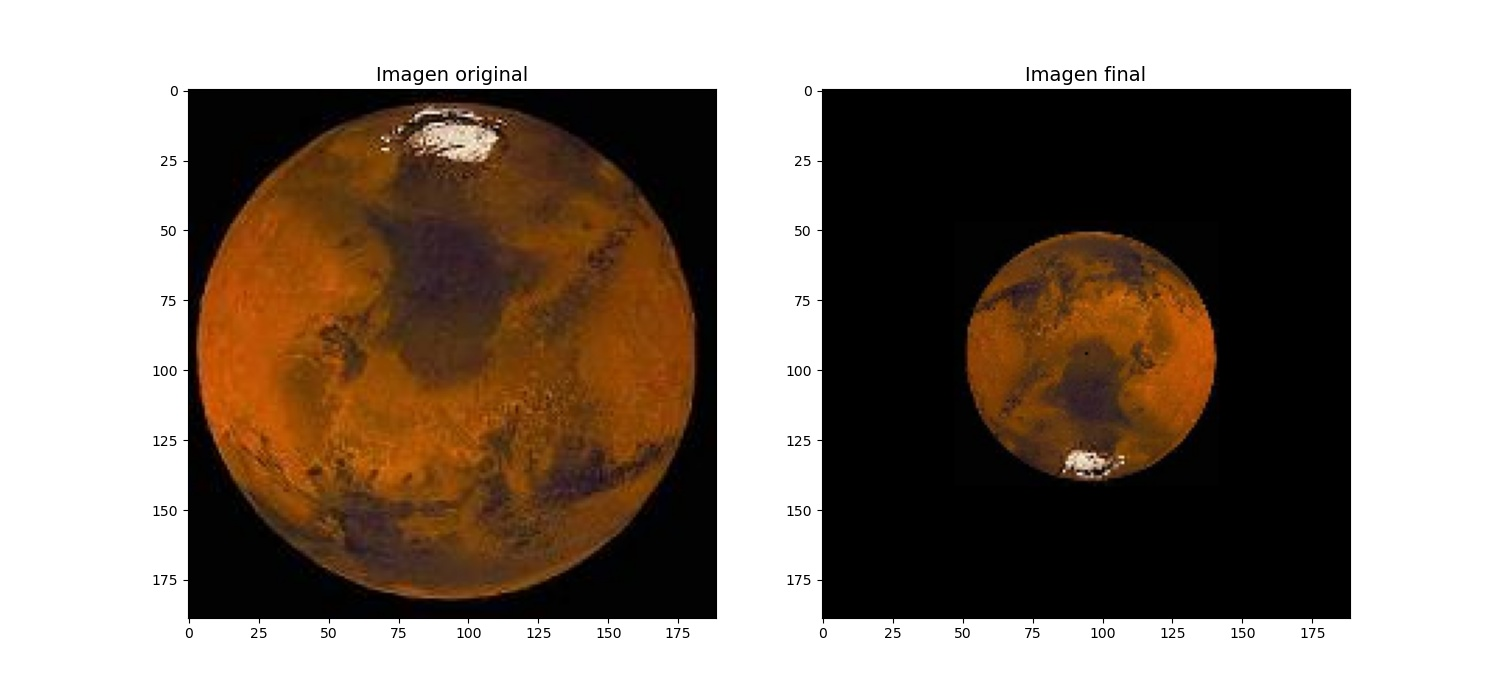
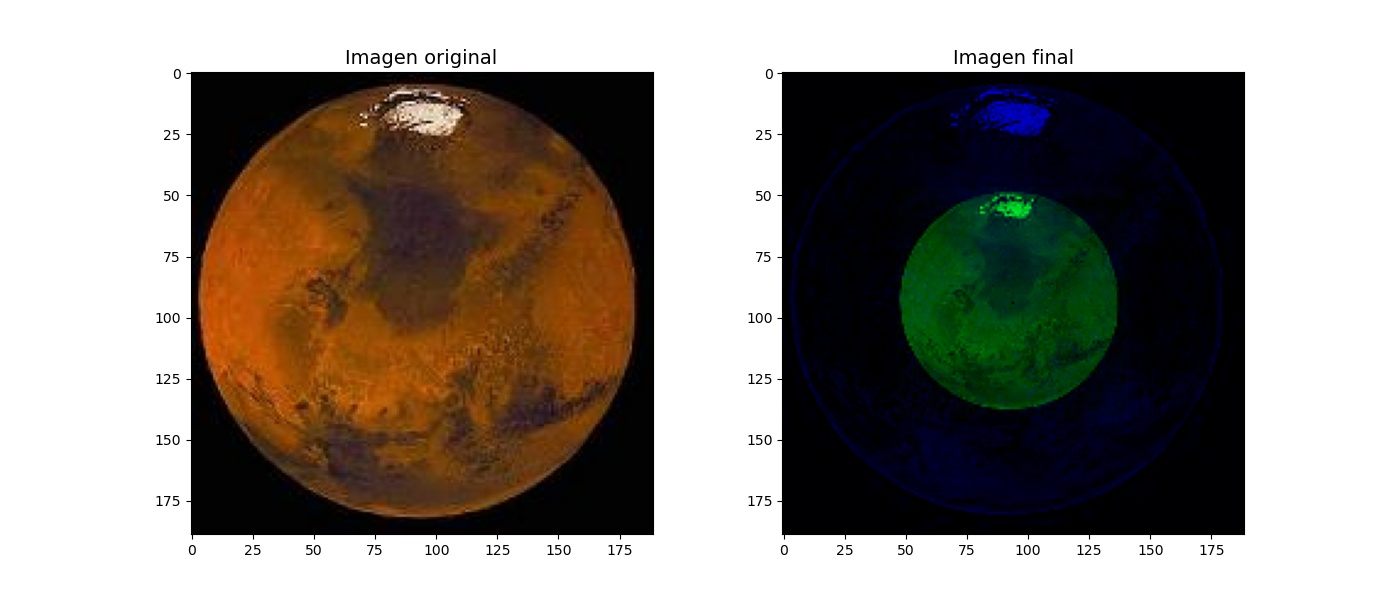
Nada importante

diff --git a/core/optic_path.py b/core/optic_path.py
@@ -11,21 +11,12 @@ class OpticalSystem:
         self.A = None
         self.d0 = None
 
-    def load(self, image_name, output_size = None):
-        self.image = img.imread(os.path.join('images', image_name))
-        self.ishape = self.image.shape
+    def load(self, image_name):
+        self.image = img.imread(os.path.join('images', image_name))  # Cargar la imagen
+        self.ishape = self.image.shape  # Tamaño de la imagen
 
-        self.x_abs = np.arange(self.ishape[1])
-        self.y_abs = np.arange(self.ishape[0])
-
-        self.x_rel = self.x_abs - self.ishape[1]/2
-        self.y_rel = self.y_abs - self.ishape[0]/2
-
-
-        if output_size is None:
-            self.output_size = self.ishape
-        else:
-            self.output_size = output_size
+        self.x_abs = np.arange(self.ishape[1])  # Posición absoluta en x
+        self.y_abs = np.arange(self.ishape[0])  # Posición absoluta en y
 
         print()
         print(f'Imagen {image_name} cargada')
@@ -78,69 +69,70 @@ class OpticalSystem:
 
     def trace(self, output_size = None ):
 
+
         if output_size is None:
-            self.transformed = np.full((self.ishape[0], self.ishape[1], 3), fill_value= 255, dtype=np.uint8) # Crear la matriz de salida
+            self.transformed = np.full((self.ishape[0], self.ishape[1], 3), fill_value= 0, dtype=np.uint8) # Crear la matriz de salida
+            self.output_size = self.ishape[0], self.ishape[1]
         else:
-            self.transformed = np.full((output_size[1], output_size[0], 3), fill_value= 255, dtype=np.uint8) # Crear la matriz de salida
-            # output_size debe ser [width, height] 
+            self.transformed = np.full((output_size[1], output_size[0], 3), fill_value= 0, dtype=np.uint8) # Crear la matriz de salida
+            self.output_size = output_size
+            # output_size debe ser (width, height)
         
         print()
         print('Comienza trazado de rayos')
         start = time.time() # Tiempo al empezar
 
-        for index, A in enumerate([*self.A]):
-            pixels = np.zeros((self.ishape[0], self.ishape[1]))
-            for rayo in [0,1]:
-                for x in self.x_rel:
-                    for y in self.y_rel:
+        for rayo in [0,1]:
+            for idx, pixel in np.ndenumerate(self.image):
 
-                        r = np.sqrt(x**2+y**2)
+                x = idx[1] - self.x_abs/2
+                y = idx[0] - self.y_abs/2
 
-                        y_obj = r*0.0001
+                r = np.sqrt(x**2+y**2)
+                y_obj = r*0.0001  # Multiplicación por la unidad en metros de cada píxel
 
-                        if rayo == 0:
-                            alpha_entrada = np.arctan(y_obj/self.d0)
-                        elif rayo == 1:
-                            alpha_entrada = 0
+                if rayo == 0:
+                    alpha_entrada = np.arctan(y_obj/self.d0)
+                elif rayo == 1:
+                    alpha_entrada = 0
 
-                        v_in = np.array([self.n0[index]*alpha_entrada,y_obj])
-                        v_out = A.dot(v_in)
+                v_in = np.array([self.n0[idx[2]]*alpha_entrada,y_obj])
+                v_out = self.A[idx[2]].dot(v_in)
 
-                        y_image = v_out[0]
+                y_image = v_out[0]
 
-                        mt = y_image/y_obj
+                mt = y_image/y_obj
 
-                        x_ = mt*x
-                        y_ = mt*y
+                x_ = mt*x
+                y_ = mt*y
 
-                        pos_x_prime = int(x_ + self.output_size[1]/2)
-                        pos_y_prime = int(y_ + self.output_size[0]/2)
 
-                        pixel_coords = (x + (self.ishape[1]/2), y + (self.ishape[0]/2))
+                pos_x_prime = int(x_ + self.output_size[1]/2)
+                pos_y_prime = int(y_ + self.output_size[0]/2)
 
-                        pixel = self.image[int(pixel_coords[0]), int(pixel_coords[1]), index]
+                pixel_coords = (x + (self.x_abs/2), y + (self.y_abs/2))
 
-                        if  pos_x_prime < 0 or pos_x_prime >= self.output_size[1]:
-                            continue
+                pixel = self.image[int(pixel_coords[0]), int(pixel_coords[1]), idx[2]]
+
+                if  pos_x_prime < 0 or pos_x_prime >= self.output_size[1]:
+                    continue
+                
+                if  pos_y_prime < 0 or pos_y_prime >= self.output_size[0]:
+                    continue
                         
-                        if  pos_y_prime < 0 or pos_y_prime >= self.output_size[0]:
-                            continue
-                                
-                        if rayo == 0: #principal   
-                            pixels[pos_x_prime, pos_y_prime] = int(pixel)
+                if rayo == 0: #principal   
+                    self.transformed[pos_x_prime, pos_y_prime, idx[2]] = int(pixel)
 
-                        elif rayo == 1: #paralelo    
-                            new_value = int((pixels[pos_x_prime, pos_y_prime]+pixel)/2)
-                            pixels[pos_x_prime, pos_y_prime] = new_value
-            
-            self.transformed[:, :, index] =  pixels
-        
+                elif rayo == 1: #paralelo    
+                    new_value = int((self.transformed[pos_x_prime, pos_y_prime, idx[2]]+pixel)/2)
+                    self.transformed[pos_x_prime, pos_y_prime, idx[2]] = new_value
+    
         stop = time.time()  # Tiempo al terminar
         print(f'Trazado de rayos hecho en {stop-start:.2f} segundos')
         print()
 
     def plot(self, save = False):
-        fig, ax = plt.subplots(1, 2, figsize = (15,7))
+        fig, ax = plt.subplots(1, 2, figsize = (14,6))
 
         ax[0].imshow(self.image)
         ax[0].set_title('Imagen original', fontsize = 14)

diff --git a/test.py b/test.py
@@ -1,16 +1,15 @@
-from core import OpticalSystem
+#from core import OpticalSystem
 import numpy as np
 
 image_name = 'marte.jpg' 
 output_name = 'marte_output.jpg'
 
-reflector = OpticalSystem()
-reflector.load(image_name)
+a = np.array([
+    [[1, 3], [5, 9], [7, 7]],
+    [[3, 9], [0, 1], [9, 1]],
+    [[7, 2], [5, 4], [1, 6]]
+])
 
-reflector.add_space(70, n = [1,1,1])
-
-reflector.trace()
-reflector.plot()
 
 
 #np.savetxt('matrixR.txt', reflector.transformed[:,:,0])

diff --git a/reflector.py b/reflector.py
@@ -7,7 +7,6 @@ reflector = OpticalSystem() # Instanciar la clase
 reflector.load(image_name)  # Cargar la imagen
 
 reflector.add_space(2, n = 1) # Añadir espacio de 2 m con n = 1 (aire)
-reflector.add_plane_mirror()  # Añadir espejo plano
 
 reflector.trace() # Hacer el trazado matricial de rayos
 reflector.plot(save = output_name) # Graficar
